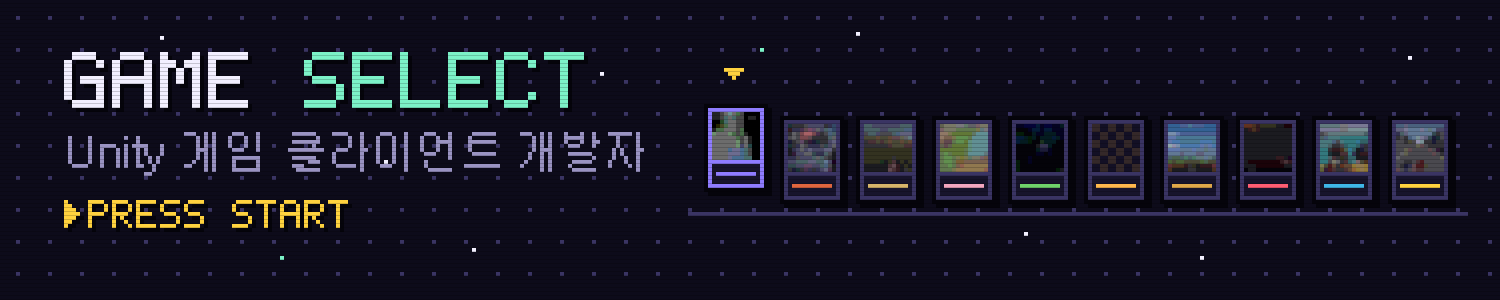
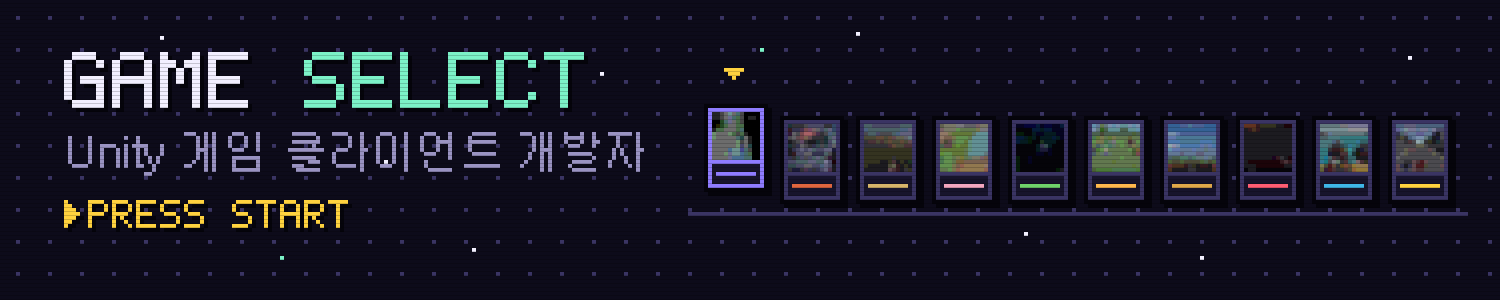
11.09/Portfolio/MoaShowdownImages

Changed region(s): [[0.7053, 0.39, 0.7667, 0.57], [0.46, 0.39, 0.5213, 0.45]]

diff --git a/data/games.js b/data/games.js
@@ -231,7 +231,7 @@ window.GAMES = [
     theme: "#ffb84d",                    // 이 게임을 고르면 화면 강조색이 이 색으로 바뀜
     summary: "몬스터 팀을 3×2 격자에 배치해 8명이 동시에 겨루는 3D 오토 배틀러. 상점에서 몬스터를 사고 합쳐 팀을 키운다.",
     tags: ["오토 배틀러", "온라인", "결정론적 전투", "테스트"],
-    cover: "",                           // 예: "games/moa-showdown/cover.jpg"
+    cover: "games/moa-showdown/cover.jpg",
     preview: "",                         // 고를 때 재생되는 짧은 영상, 예: "games/moa-showdown/preview.mp4"
     video: "",                           // 상세 페이지 영상 (YouTube 주소 또는 mp4 경로)
     myWork: [
@@ -261,7 +261,7 @@ window.GAMES = [
         result: "형식을 고쳐도 이전 버전 데이터가 계속 읽힌다."
       }
     ],
-    shots: [],                           // 예: ["games/moa-showdown/1.jpg", "games/moa-showdown/2.jpg"]
+    shots: ["games/moa-showdown/1.jpg", "games/moa-showdown/2.jpg", "games/moa-showdown/3.jpg", "games/moa-showdown/4.jpg", "games/moa-showdown/5.jpg"],
     links: [
       { label: "GitHub", url: "https://github.com/Shaun1667/MoaShowdown" }
     ]
